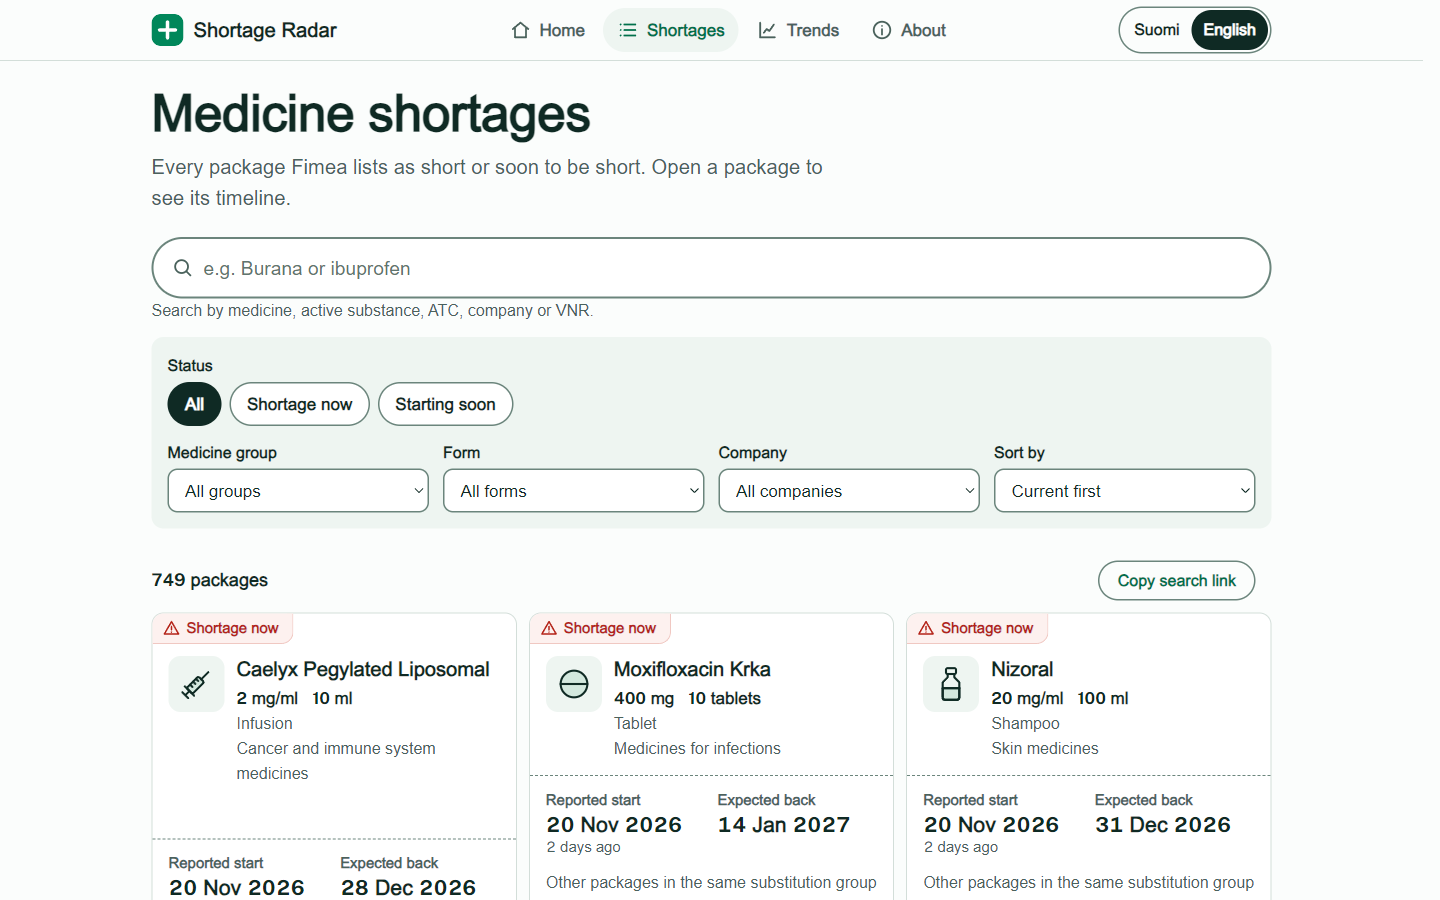
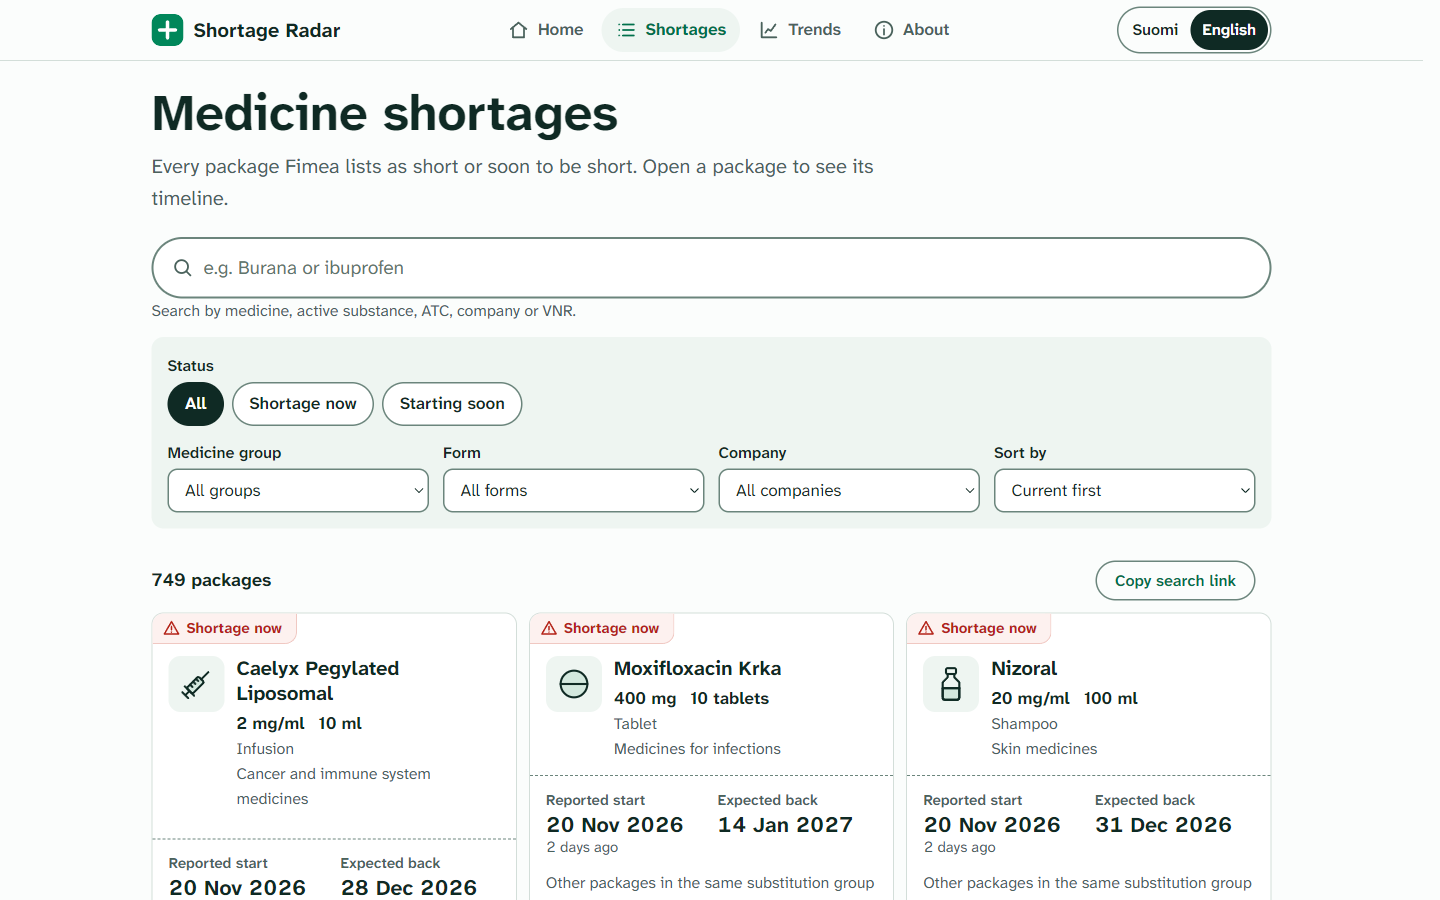
Fix the site font falling back to Arial; refresh README screenshots
The Public Sans digits face declared a weight range of 100 900 while the Atkinson faces declared 200 800. Faces of one family with different
ranges are not merged by unicode-range, so the browser chose the digits face for weight 400 and every letter fell back to Arial. All three
faces now declare 200 800, and a test keeps them equal.

diff --git a/site/style.css b/site/style.css
@@ -2,7 +2,7 @@
 @font-face{font-family:'Atkinson Hyperlegible Next';src:url('fonts/atkinson-latin.woff2') format('woff2');font-weight:200 800;font-style:normal;font-display:swap;unicode-range:U+0000-00FF,U+0131,U+0152-0153,U+02BB-02BC,U+02C6,U+02DA,U+02DC,U+0304,U+0308,U+0329,U+2000-206F,U+20AC,U+2122,U+2191,U+2193,U+2212,U+2215,U+FEFF,U+FFFD}
 @font-face{font-family:'Atkinson Hyperlegible Next';src:url('fonts/atkinson-latin-ext.woff2') format('woff2');font-weight:200 800;font-style:normal;font-display:swap;unicode-range:U+0100-02BA,U+02BD-02C5,U+02C7-02CC,U+02CE-02D7,U+02DD-02FF,U+0304,U+0308,U+0329,U+1D00-1DBF,U+1E00-1E9F,U+1EF2-1EFF,U+2020,U+20A0-20AB,U+20AD-20C0,U+2113,U+2C60-2C7F,U+A720-A7FF}
 /* Digits only, from Public Sans: Atkinson's zero is slashed and reads as a letter in dates and doses. Declared last so it wins for 0-9. */
-@font-face{font-family:'Atkinson Hyperlegible Next';src:url('fonts/public-sans-digits.woff2') format('woff2');font-weight:100 900;font-style:normal;font-display:swap;size-adjust:97%;unicode-range:U+0030-0039}
+@font-face{font-family:'Atkinson Hyperlegible Next';src:url('fonts/public-sans-digits.woff2') format('woff2');font-weight:200 800;font-style:normal;font-display:swap;size-adjust:97%;unicode-range:U+0030-0039}
 html.i18n-pending body{animation:reveal-fallback 0s 2s both}@keyframes reveal-fallback{from{visibility:hidden}to{visibility:visible}}
 
 :root{

diff --git a/tests/test_pages.py b/tests/test_pages.py
@@ -116,3 +116,17 @@ def test_pages_load_only_small_data_files():
         assert 'data.json' not in text and 'current.json' not in text, name
     assert 'data.json' not in (root / 'medicine.js').read_text(encoding='utf-8')
     assert "p/${vnr.slice(-2)}.json" in (root / 'medicine.js').read_text(encoding='utf-8')
+
+
+def test_every_face_of_the_site_font_family_declares_the_same_weight_range():
+    """Faces of one family with different font-weight ranges are not combined by unicode-range:
+    the browser picks one of them for a weight, and every character it does not cover falls back to Arial.
+    The digits face once had 100 900 against the letters' 200 800, and all letters rendered in Arial."""
+    css = (ROOT / 'site/style.css').read_text(encoding='utf-8')
+    faces = re.findall(r"@font-face\{font-family:'Atkinson Hyperlegible Next';([^}]*)\}", css)
+    assert len(faces) == 3
+    assert {re.search(r'font-weight:([\d ]+);', f).group(1) for f in faces} == {'200 800'}
+    ranges = [re.search(r'unicode-range:([^;}]+)', f).group(1) for f in faces]
+    assert any(r == 'U+0030-0039' for r in ranges)
+    html = render_pages(749)['index.html']
+    assert 'fonts/atkinson-latin.woff2' in html and 'fonts/public-sans-digits.woff2' in html
